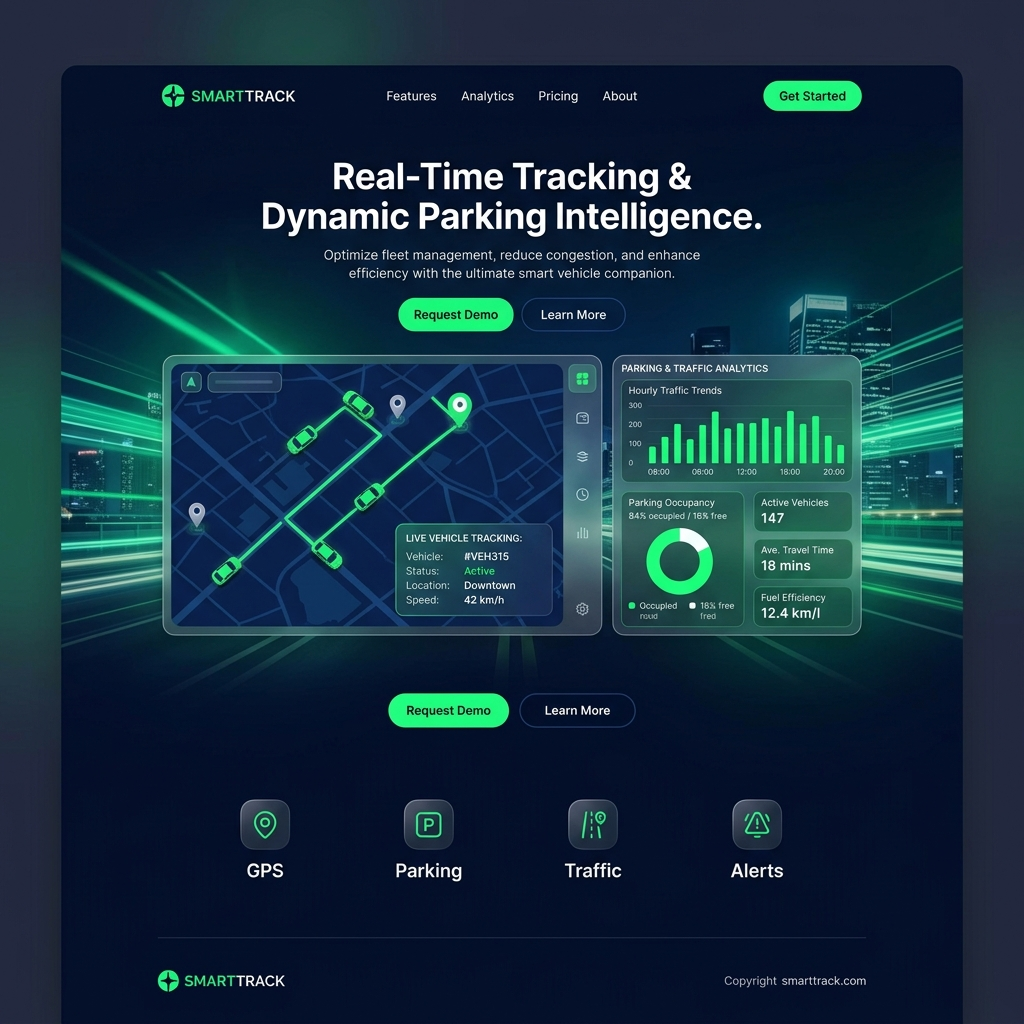
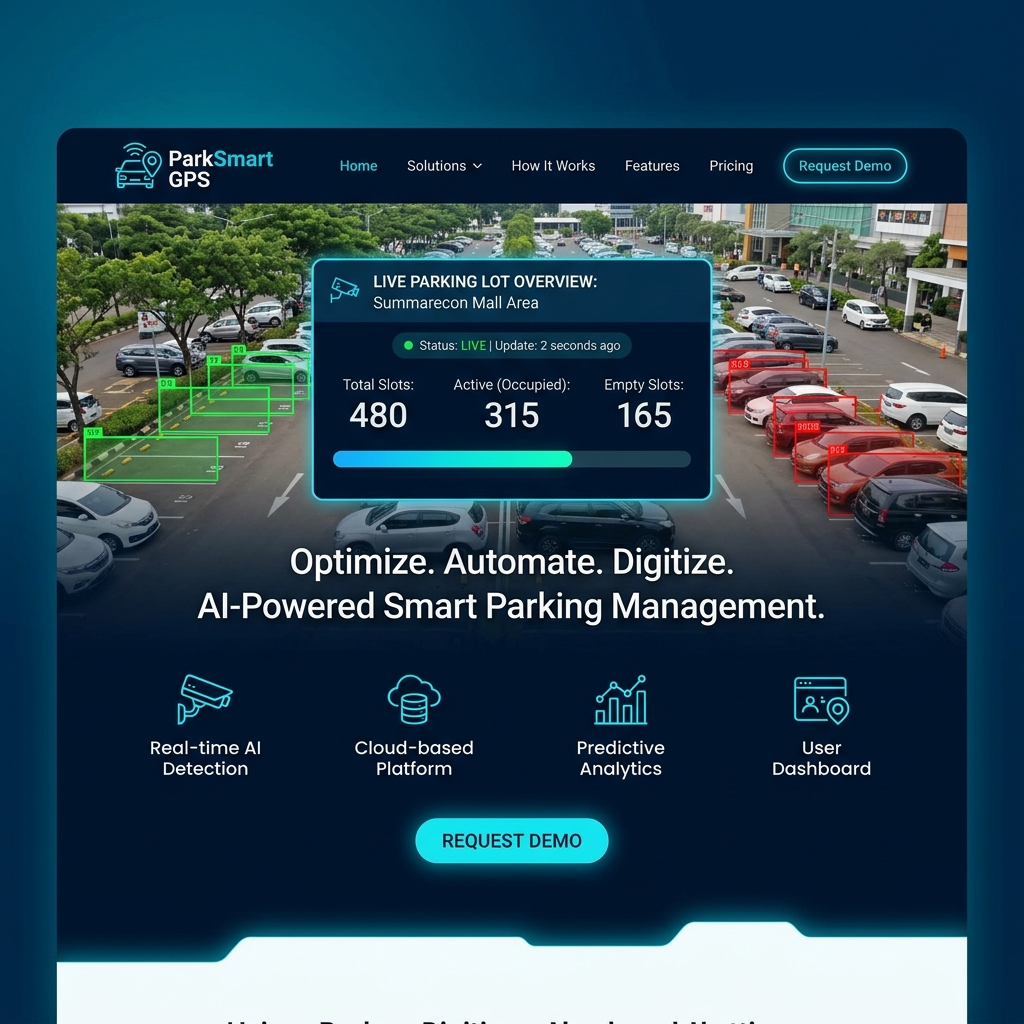
Update portfolio page styles for light/dark theme compliance and revise project details

diff --git a/resources/views/portfolio.blade.php b/resources/views/portfolio.blade.php
@@ -13,69 +13,69 @@
             <div class="section-header" style="margin-bottom: 60px;">
                 <span class="section-badge" style="background: rgba(14, 165, 233, 0.1); border-color: rgba(14, 165, 233, 0.2); color: var(--primary);">KARYA TERBAIK</span>
                 <h2 class="section-title">Portofolio Karya & Inovasi</h2>
-                <p class="section-desc">Jelajahi hasil karya premium dengan integrasi visual interaktif, arsitektur kokoh, dan kinerja ultra-responsif yang telah kami luncurkan untuk para mitra kami.</p>
+                <p class="section-desc" style="color: var(--text-muted);">Jelajahi hasil karya premium dengan integrasi visual interaktif, arsitektur kokoh, dan kinerja ultra-responsif yang telah kami luncurkan untuk para mitra kami.</p>
             </div>
 
             <!-- Portfolio Grid -->
             <div class="features-grid" style="display: grid; grid-template-columns: repeat(auto-fit, minmax(350px, 1fr)); gap: 40px; margin-top: 40px;">
                 
                 <!-- Project 1: UG Force -->
-                <div class="glass-card portfolio-card" style="padding: 0; overflow: hidden; display: flex; flex-direction: column; height: 100%; border: 1px solid var(--border-color); border-radius: 20px; background: rgba(15, 23, 42, 0.3); backdrop-filter: blur(20px); transition: all 0.5s cubic-bezier(0.16, 1, 0.3, 1);">
+                <div class="glass-card portfolio-card" style="padding: 0; overflow: hidden; display: flex; flex-direction: column; height: 100%; border: 1px solid var(--border-color); border-radius: 20px; transition: all 0.5s cubic-bezier(0.16, 1, 0.3, 1);">
                     <div style="width: 100%; height: 220px; overflow: hidden; position: relative; border-bottom: 1px solid var(--border-color);">
-                        <img src="/images/portfolio_ugforce.png" alt="UG Force Esports Portal" style="width: 100%; height: 100%; object-fit: cover; transition: transform 0.6s cubic-bezier(0.16, 1, 0.3, 1);" class="portfolio-img">
+                        <img src="/images/portfolio_ugforce.png" alt="UG Force Classroom Booking" style="width: 100%; height: 100%; object-fit: cover; transition: transform 0.6s cubic-bezier(0.16, 1, 0.3, 1);" class="portfolio-img">
                         <div class="portfolio-overlay" style="position: absolute; top: 12px; right: 12px; z-index: 3;">
-                            <span class="badge" style="background: rgba(168, 85, 247, 0.2); border: 1px solid rgba(168, 85, 247, 0.4); color: #c084fc; padding: 6px 12px; border-radius: 50px; font-size: 11px; font-weight: 600; letter-spacing: 0.5px; text-transform: uppercase;">Esports & Community</span>
+                            <span class="badge" style="background: rgba(168, 85, 247, 0.15); border: 1px solid rgba(168, 85, 247, 0.3); color: #c084fc; padding: 6px 12px; border-radius: 50px; font-size: 11px; font-weight: 700; letter-spacing: 0.5px; text-transform: uppercase;">Pemesanan Kelas & Kampus</span>
                         </div>
                     </div>
                     <div style="padding: 30px; display: flex; flex-direction: column; flex-grow: 1;">
                         <h3 style="font-size: 22px; font-weight: 800; margin-bottom: 15px; color: var(--text-main); font-family: var(--font-heading); display: flex; align-items: center; gap: 8px;">
-                            UG Force Portal <span style="font-size: 14px; opacity: 0.5; font-weight: 400;">(v1.0)</span>
+                            UG Force Room Booking <span style="font-size: 14px; opacity: 0.5; font-weight: 400;">(v1.0)</span>
                         </h3>
-                        <p style="font-size: 13.5px; color: var(--text-dark); opacity: 0.8; line-height: 1.6; margin-bottom: 24px; flex-grow: 1;">
-                            Sebuah platform landing page dan pusat komunitas gaming & esports futuristik. Dirancang dengan visual gelap bertema neon cyber-cyber, sistem peringkat turnamen, pendaftaran tim terpadu, serta navigasi super-responsif.
+                        <p style="font-size: 13.5px; color: var(--text-muted); opacity: 0.95; line-height: 1.6; margin-bottom: 24px; flex-grow: 1;">
+                            Sistem informasi manajemen dan pemesanan ruang kelas perkuliahan berbasis web untuk civitas akademika. Memudahkan dosen dan mahasiswa dalam menjadwalkan kelas, memesan ruang rapat, dan memantau ketersediaan ruangan secara real-time.
                         </p>
                         
                         <!-- Tech Tags -->
                         <div style="display: flex; flex-wrap: wrap; gap: 8px; margin-bottom: 30px;">
-                            <span class="tech-tag" style="font-size: 11px; padding: 4px 10px; border-radius: 6px; background: rgba(255,255,255,0.03); border: 1px solid var(--border-color); color: var(--text-muted);">Next.js</span>
-                            <span class="tech-tag" style="font-size: 11px; padding: 4px 10px; border-radius: 6px; background: rgba(255,255,255,0.03); border: 1px solid var(--border-color); color: var(--text-muted);">React</span>
-                            <span class="tech-tag" style="font-size: 11px; padding: 4px 10px; border-radius: 6px; background: rgba(255,255,255,0.03); border: 1px solid var(--border-color); color: var(--text-muted);">Tailwind CSS</span>
-                            <span class="tech-tag" style="font-size: 11px; padding: 4px 10px; border-radius: 6px; background: rgba(255,255,255,0.03); border: 1px solid var(--border-color); color: var(--text-muted);">Framer Motion</span>
+                            <span class="tech-tag">Laravel 11</span>
+                            <span class="tech-tag">PostgreSQL</span>
+                            <span class="tech-tag">Tailwind CSS</span>
+                            <span class="tech-tag">Interactive Map</span>
                         </div>
 
                         <!-- Action Button -->
-                        <a href="https://ugforce.vercel.app/" target="_blank" class="btn-primary" style="margin-top: auto; display: flex; align-items: center; justify-content: center; gap: 10px; width: 100%; background: linear-gradient(135deg, #a855f7 0%, #6366f1 100%); border: none; box-shadow: 0 0 15px rgba(168, 85, 247, 0.3);">
+                        <a href="https://ugforce.vercel.app/" target="_blank" class="btn-primary" style="margin-top: auto; display: flex; align-items: center; justify-content: center; gap: 10px; width: 100%; background: linear-gradient(135deg, #a855f7 0%, #6366f1 100%); border: none; box-shadow: 0 0 15px rgba(168, 85, 247, 0.3); color: #ffffff !important;">
                             <span>Kunjungi Website</span> <i class="fa-solid fa-arrow-up-right-from-square" style="font-size: 12px;"></i>
                         </a>
                     </div>
                 </div>
 
                 <!-- Project 2: ParkSmart GPS -->
-                <div class="glass-card portfolio-card" style="padding: 0; overflow: hidden; display: flex; flex-direction: column; height: 100%; border: 1px solid var(--border-color); border-radius: 20px; background: rgba(15, 23, 42, 0.3); backdrop-filter: blur(20px); transition: all 0.5s cubic-bezier(0.16, 1, 0.3, 1);">
+                <div class="glass-card portfolio-card" style="padding: 0; overflow: hidden; display: flex; flex-direction: column; height: 100%; border: 1px solid var(--border-color); border-radius: 20px; transition: all 0.5s cubic-bezier(0.16, 1, 0.3, 1);">
                     <div style="width: 100%; height: 220px; overflow: hidden; position: relative; border-bottom: 1px solid var(--border-color);">
-                        <img src="/images/portfolio_parksmart.png" alt="ParkSmart GPS Vehicle Tracking" style="width: 100%; height: 100%; object-fit: cover; transition: transform 0.6s cubic-bezier(0.16, 1, 0.3, 1);" class="portfolio-img">
+                        <img src="/images/portfolio_parksmart.png" alt="ParkSmart GPS AI Parking" style="width: 100%; height: 100%; object-fit: cover; transition: transform 0.6s cubic-bezier(0.16, 1, 0.3, 1);" class="portfolio-img">
                         <div class="portfolio-overlay" style="position: absolute; top: 12px; right: 12px; z-index: 3;">
-                            <span class="badge" style="background: rgba(16, 185, 129, 0.2); border: 1px solid rgba(16, 185, 129, 0.4); color: #34d399; padding: 6px 12px; border-radius: 50px; font-size: 11px; font-weight: 600; letter-spacing: 0.5px; text-transform: uppercase;">IoT & Tracking</span>
+                            <span class="badge" style="background: rgba(16, 185, 129, 0.15); border: 1px solid rgba(16, 185, 129, 0.3); color: #34d399; padding: 6px 12px; border-radius: 50px; font-size: 11px; font-weight: 700; letter-spacing: 0.5px; text-transform: uppercase;">AI Computer Vision</span>
                         </div>
                     </div>
                     <div style="padding: 30px; display: flex; flex-direction: column; flex-grow: 1;">
                         <h3 style="font-size: 22px; font-weight: 800; margin-bottom: 15px; color: var(--text-main); font-family: var(--font-heading); display: flex; align-items: center; gap: 8px;">
-                            ParkSmart GPS <span style="font-size: 14px; opacity: 0.5; font-weight: 400;">(v2.1)</span>
+                            ParkSmart GPS AI <span style="font-size: 14px; opacity: 0.5; font-weight: 400;">(v2.1)</span>
                         </h3>
-                        <p style="font-size: 13.5px; color: var(--text-dark); opacity: 0.8; line-height: 1.6; margin-bottom: 24px; flex-grow: 1;">
-                            Dasbor web analitik cerdas untuk pemantauan slot parkir terintegrasi dan sistem pelacakan GPS armada kendaraan real-time. Memadukan visualisasi data interaktif, integrasi peta dinamis, dan peringatan instan (warning alert).
+                        <p style="font-size: 13.5px; color: var(--text-muted); opacity: 0.95; line-height: 1.6; margin-bottom: 24px; flex-grow: 1;">
+                            Sistem manajemen parkir pintar terintegrasi menggunakan teknologi Computer Vision AI untuk mendeteksi ketersediaan slot parkir secara real-time melalui kamera pengawas. Diimplementasikan di kawasan Summarecon Mall untuk mengoptimalkan mobilitas.
                         </p>
                         
                         <!-- Tech Tags -->
                         <div style="display: flex; flex-wrap: wrap; gap: 8px; margin-bottom: 30px;">
-                            <span class="tech-tag" style="font-size: 11px; padding: 4px 10px; border-radius: 6px; background: rgba(255,255,255,0.03); border: 1px solid var(--border-color); color: var(--text-muted);">Vue.js</span>
-                            <span class="tech-tag" style="font-size: 11px; padding: 4px 10px; border-radius: 6px; background: rgba(255,255,255,0.03); border: 1px solid var(--border-color); color: var(--text-muted);">Vite</span>
-                            <span class="tech-tag" style="font-size: 11px; padding: 4px 10px; border-radius: 6px; background: rgba(255,255,255,0.03); border: 1px solid var(--border-color); color: var(--text-muted);">Leaflet Maps</span>
-                            <span class="tech-tag" style="font-size: 11px; padding: 4px 10px; border-radius: 6px; background: rgba(255,255,255,0.03); border: 1px solid var(--border-color); color: var(--text-muted);">Chart.js</span>
+                            <span class="tech-tag">Vue.js</span>
+                            <span class="tech-tag">Python (OpenCV)</span>
+                            <span class="tech-tag">FastAPI</span>
+                            <span class="tech-tag">IoT Analytics</span>
                         </div>
 
                         <!-- Action Button -->
-                        <a href="https://parksmart-gps.vercel.app/" target="_blank" class="btn-primary" style="margin-top: auto; display: flex; align-items: center; justify-content: center; gap: 10px; width: 100%; background: linear-gradient(135deg, #10b981 0%, #059669 100%); border: none; box-shadow: 0 0 15px rgba(16, 185, 129, 0.3);">
+                        <a href="https://parksmart-gps.vercel.app/" target="_blank" class="btn-primary" style="margin-top: auto; display: flex; align-items: center; justify-content: center; gap: 10px; width: 100%; background: linear-gradient(135deg, #10b981 0%, #059669 100%); border: none; box-shadow: 0 0 15px rgba(16, 185, 129, 0.3); color: #ffffff !important;">
                             <span>Kunjungi Website</span> <i class="fa-solid fa-arrow-up-right-from-square" style="font-size: 12px;"></i>
                         </a>
                     </div>
@@ -96,12 +96,23 @@
             transform: scale(1.08);
         }
         .tech-tag {
+            font-size: 11px;
+            padding: 5px 12px;
+            border-radius: 8px;
+            background: rgba(255, 255, 255, 0.04);
+            border: 1px solid var(--border-color);
+            color: var(--text-muted);
+            font-weight: 600;
             transition: all 0.3s ease;
         }
+        html[data-theme="light"] .tech-tag {
+            background: rgba(15, 23, 42, 0.04);
+            color: var(--text-muted);
+        }
         .portfolio-card:hover .tech-tag {
-            border-color: rgba(255, 255, 255, 0.1) !important;
-            background: rgba(255, 255, 255, 0.05) !important;
-            color: var(--text-main) !important;
+            border-color: rgba(14, 165, 233, 0.3) !important;
+            background: rgba(14, 165, 233, 0.08) !important;
+            color: var(--primary) !important;
         }
     </style>
 
